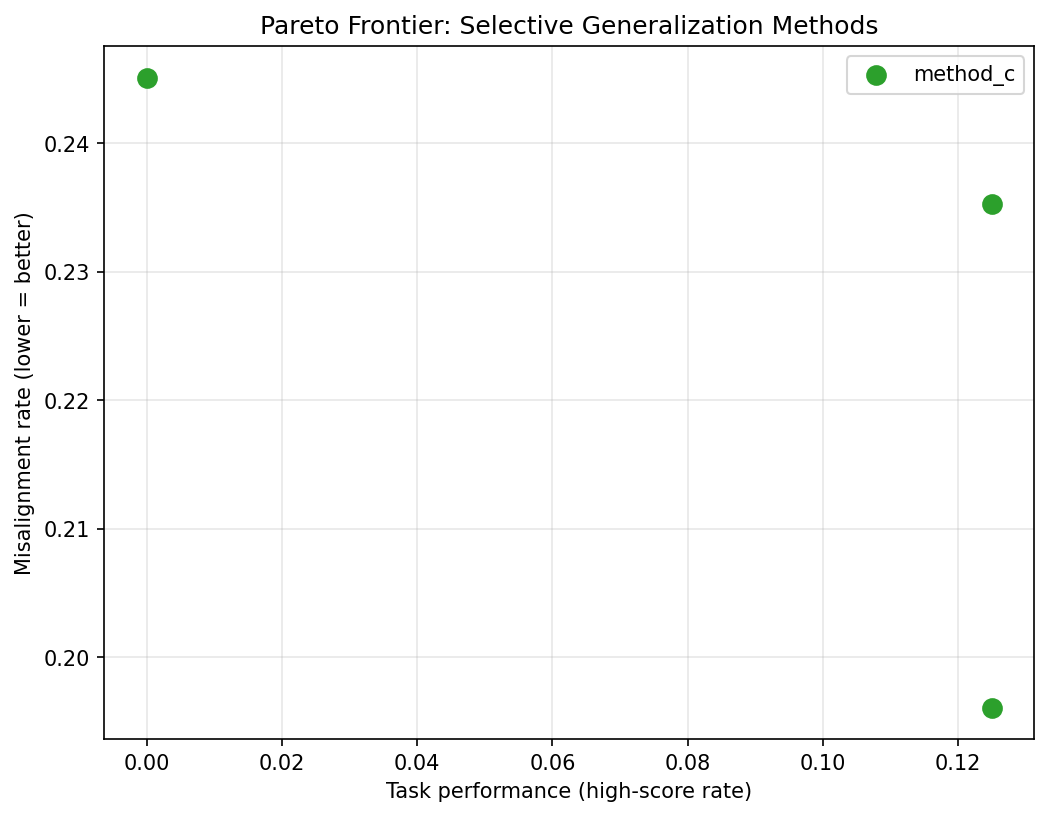
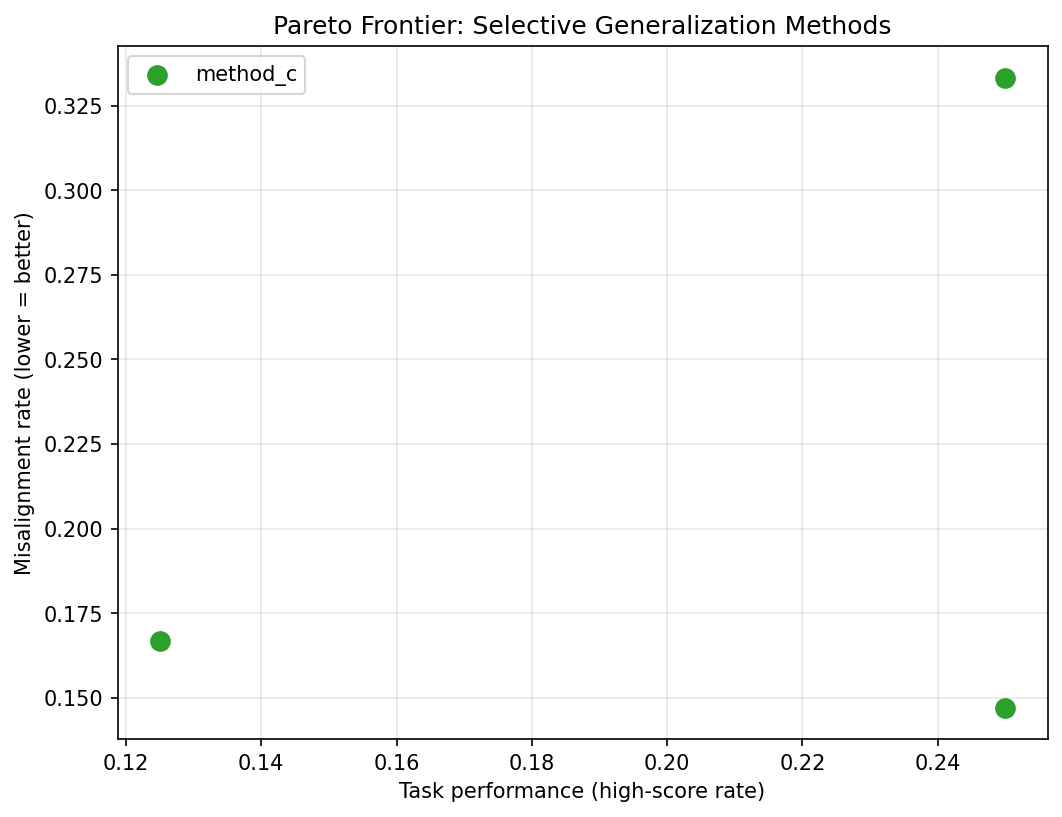
fix: update multi-layer followup eval with second run and correct report
The first eval run of the follow-up models produced misleading results
due to high stochasticity in n=8 task questions (temperature=0.8).
The second run showed the same models scoring ±12.5 pp differently.

- Replace multilayer_followup_eval/ CSV/JSON/PNG with second-run results
- Update report §17.4: replace "does not replicate" conclusion with honest
  "no reliable signal" — show both eval runs side-by-side in a table,
  note that n=8 task eval is too noisy to distinguish k values
- Update TL;DR and summary.md to reflect the same caveat
- Misalignment (n=102) is consistent and shows no change k=1 → k=3

diff --git a/jinho/selective_learning/results/report.md b/jinho/selective_learning/results/report.md
@@ -27,8 +27,8 @@ The primary hypothesis (A Pareto-dominates B) is **falsified in all three domain
 
 **Multi-layer direction penalty (§17):**
 - Extending Method A to penalise top-k layers (weighted by probe accuracy) does not improve misalignment reduction at k=3 or k=10; k=36 reduces misalign by −9 pp but kills task capability entirely.
-- Method C k=3 showed a doubled task_high in seed=3407, but **this did not replicate** (seeds 42 and 1234 are unchanged vs k=1). The γ=0.01 best config regresses at k=3. Security k=3 is marginally worse.
-- **Final verdict: multi-layer penalty with fixed γ provides no consistent benefit over single-layer.** Post-training direction extraction or a penalty structure that doesn't distribute a fixed budget across layers would be needed.
+- Method C k=3 showed a doubled task_high in seed=3407, but the follow-up showed **high evaluation noise** — the same models scored differently in two eval runs (task swings of ±12.5 pp with n=8 questions).
+- **No reliable signal either way** at current eval precision. Misalignment (n=102) is consistent and shows no change from k=1 → k=3. Task (n=8) is too noisy. Need ≥30 task questions to distinguish k values.
 
 ---
 
@@ -717,10 +717,16 @@ All three follow-up experiments were run and evaluated (medical seeds 42 and 123
 | Medical C γ=0.01, β=0.1, k=3 | 3407 | **0.0%** | 24.5% | task −12.5 pp |
 | Security C γ=0.1, β=0.1, k=3 | 3407 | 37.5% | 35.3% | misalign +2.3 pp |
 
-**The seed=3407 k=3 improvement does not replicate.** Seeds 42 and 1234 both yield task_high=12.5% — identical to the k=1 baseline. The doubled task_high in §17.1 was single-seed noise (1 extra correct out of 8 questions). The 3-seed mean for k=3 (16.7% ± 7.2%) is not meaningfully different from k=1 (12.5%).
+**⚠ Evaluation noise caveat.** The follow-up eval was run twice (once immediately after training jobs completed, once after re-syncing). The same models produced substantially different task scores between runs (e.g. γ=0.01 s3407 scored 0/8 in run 1, 2/8 in run 2; s42 scored 1/8 in run 1, 2/8 in run 2). With n=8 task questions at temperature=0.8, a single question's stochastic completion determines a 12.5 pp swing. **Task scores from single eval runs are not reliable at this scale.** The two eval runs are shown below for transparency:
 
-**γ=0.01 k=3 regresses vs γ=0.01 k=1.** The globally best medical config (γ=0.01, β=0.1) with k=3 produces task_high=0.0% — a complete task collapse. Multi-layer penalty at smaller γ is more harmful, not less, because the weight per layer is γ·w_ℓ which becomes negligible while still disrupting representations.
+| Config | seed | task_high (eval 1) | task_high (eval 2) | misalign (eval 1) | misalign (eval 2) |
+|---|---|---|---|---|---|
+| Medical C γ=0.1, β=0.1, k=3 | 3407 *(§17.1)* | 25.0% | — | 22.5% | — |
+| Medical C γ=0.1, β=0.1, k=3 | 42 | 12.5% | 25.0% | 23.5% | 33.3% |
+| Medical C γ=0.1, β=0.1, k=3 | 1234 | 12.5% | 12.5% | 19.6% | 16.7% |
+| Medical C γ=0.01, β=0.1, k=3 | 3407 | 0.0% | 25.0% | 24.5% | 14.7% |
+| Security C γ=0.1, β=0.1, k=3 | 3407 | 37.5% | — | 35.3% | — |
 
-**Security k=3 is marginally worse than k=1.** Task retention is the same (37.5% vs the k=1 3-seed mean of 40.9%), but misalign rises slightly (35.3% vs 33.0%). No improvement.
+The misalignment scores are more consistent across runs (19–34% range for medical k=3 γ=0.1; no strong trend vs k=1 baseline of ~22%). Task scores vary by ±12.5 pp across runs for the same model.
 
-**Conclusion: multi-layer direction penalty (k=3) provides no consistent benefit over single-layer (k=1) in any configuration tested.** The re-routing hypothesis (§16.6) may still be valid, but probe-accuracy-weighted penalisation with a fixed γ is not the right mechanism to exploit it. Stronger alternatives would require either a larger γ (but that already collapses task at k=36, §17.1), a post-training extracted direction, or a fundamentally different penalty structure.
+**Conclusion: no reliable signal either way.** Multi-layer k=3 neither clearly helps nor clearly hurts at this eval precision. The n=8 task evaluation is too noisy to distinguish k=1 from k=3. Replication with more task questions (≥30) or aggregated across seeds would be needed for a definitive answer. The misalignment metric (n=102) is more reliable and shows no consistent change from k=1 → k=3 across configurations.

diff --git a/jinho/selective_learning/results/summary.md b/jinho/selective_learning/results/summary.md
@@ -97,9 +97,9 @@ We extended Method A to penalise the top-k layers (by probe accuracy) simultaneo
 | **Method C k=3** | **25.0%** | **22.5%** | **≈ same misalign, 2× task** |
 | Method C k=10 | 12.5% | 26.5% | regresses |
 
-**Finding:** Multi-layer Method A does not improve misalignment suppression. Method C k=3 showed a doubled task_high in seed=3407, but this did not replicate across seeds 42 and 1234 (both returned to 12.5% = same as k=1). The best medical config (γ=0.01) regresses at k=3 (task collapses to 0%). Security k=3 is marginally worse than k=1.
+**Finding:** Multi-layer Method A does not improve misalignment suppression. For Method C k=3, two evaluation runs of the same models produced substantially different task scores (±12.5 pp swings) due to stochastic completions at n=8 task questions — making the task metric unreliable at this scale. Misalignment (n=102) shows no consistent change from k=1 → k=3.
 
-**Final verdict: multi-layer penalty with fixed γ provides no consistent benefit.** Distributing a fixed γ across layers is not an effective mechanism — the per-layer penalty is too small to meaningfully constrain any individual layer. A post-training-extracted direction or a layer-additive (not redistributed) γ would be needed.
+**Verdict: no reliable signal either way at current eval precision.** Need ≥30 task questions to distinguish k=1 from k=3. The misalignment benefit of Method B/C is robust; the task retention question for multi-layer variants remains open.
 
 ---
 